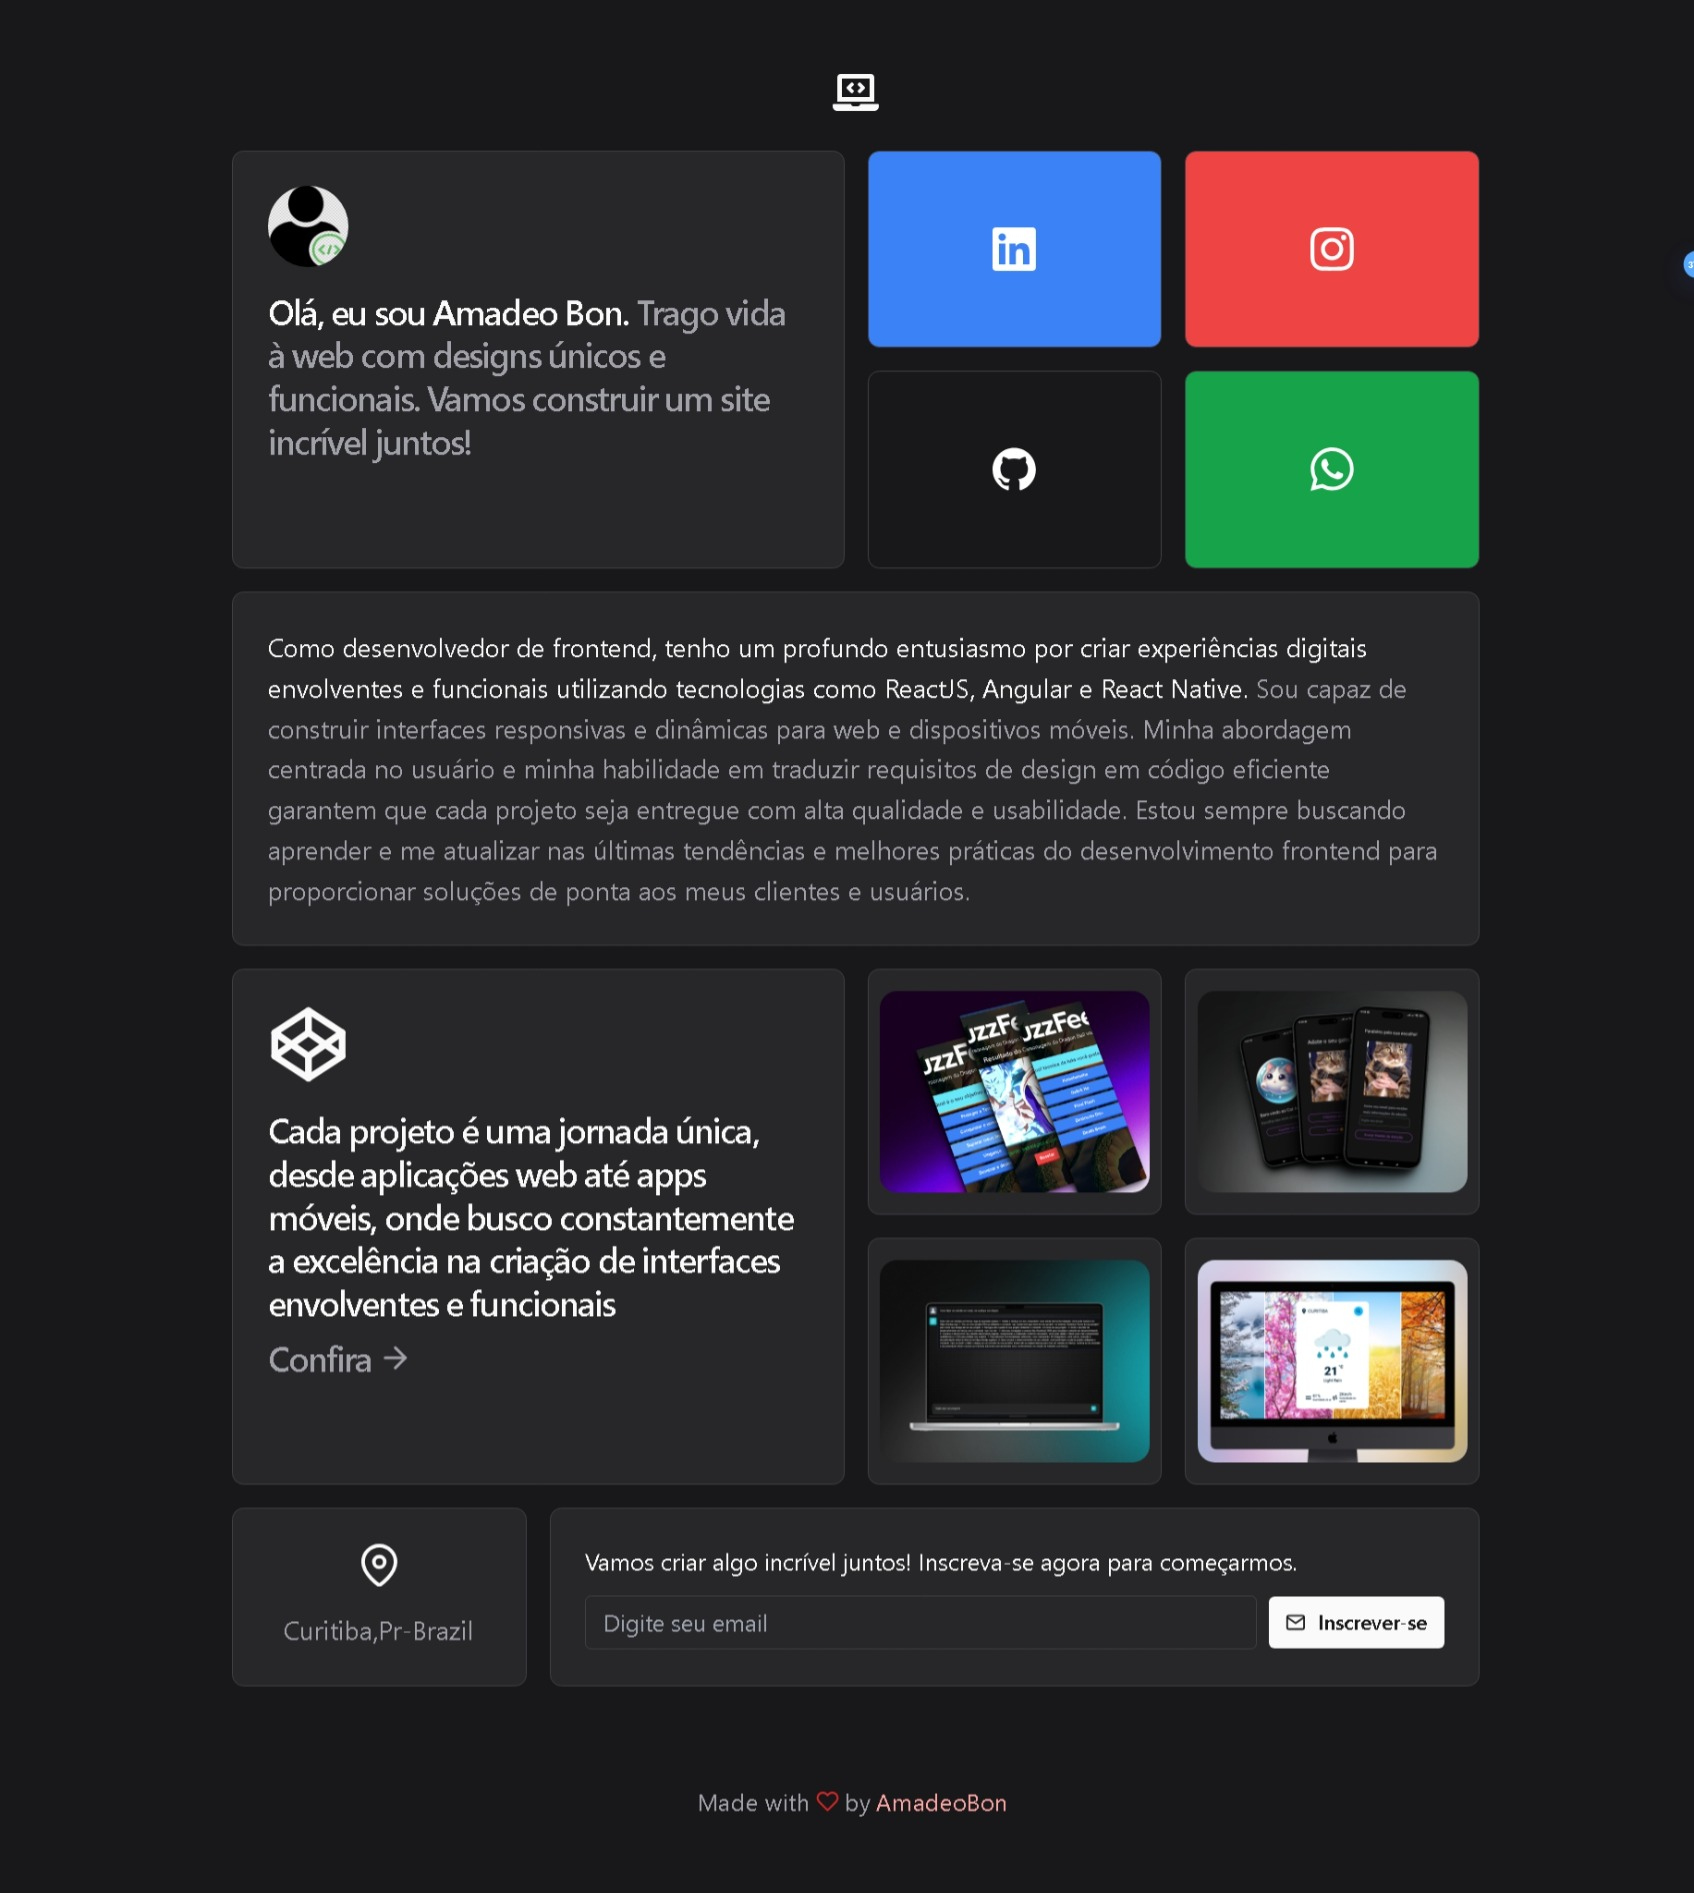
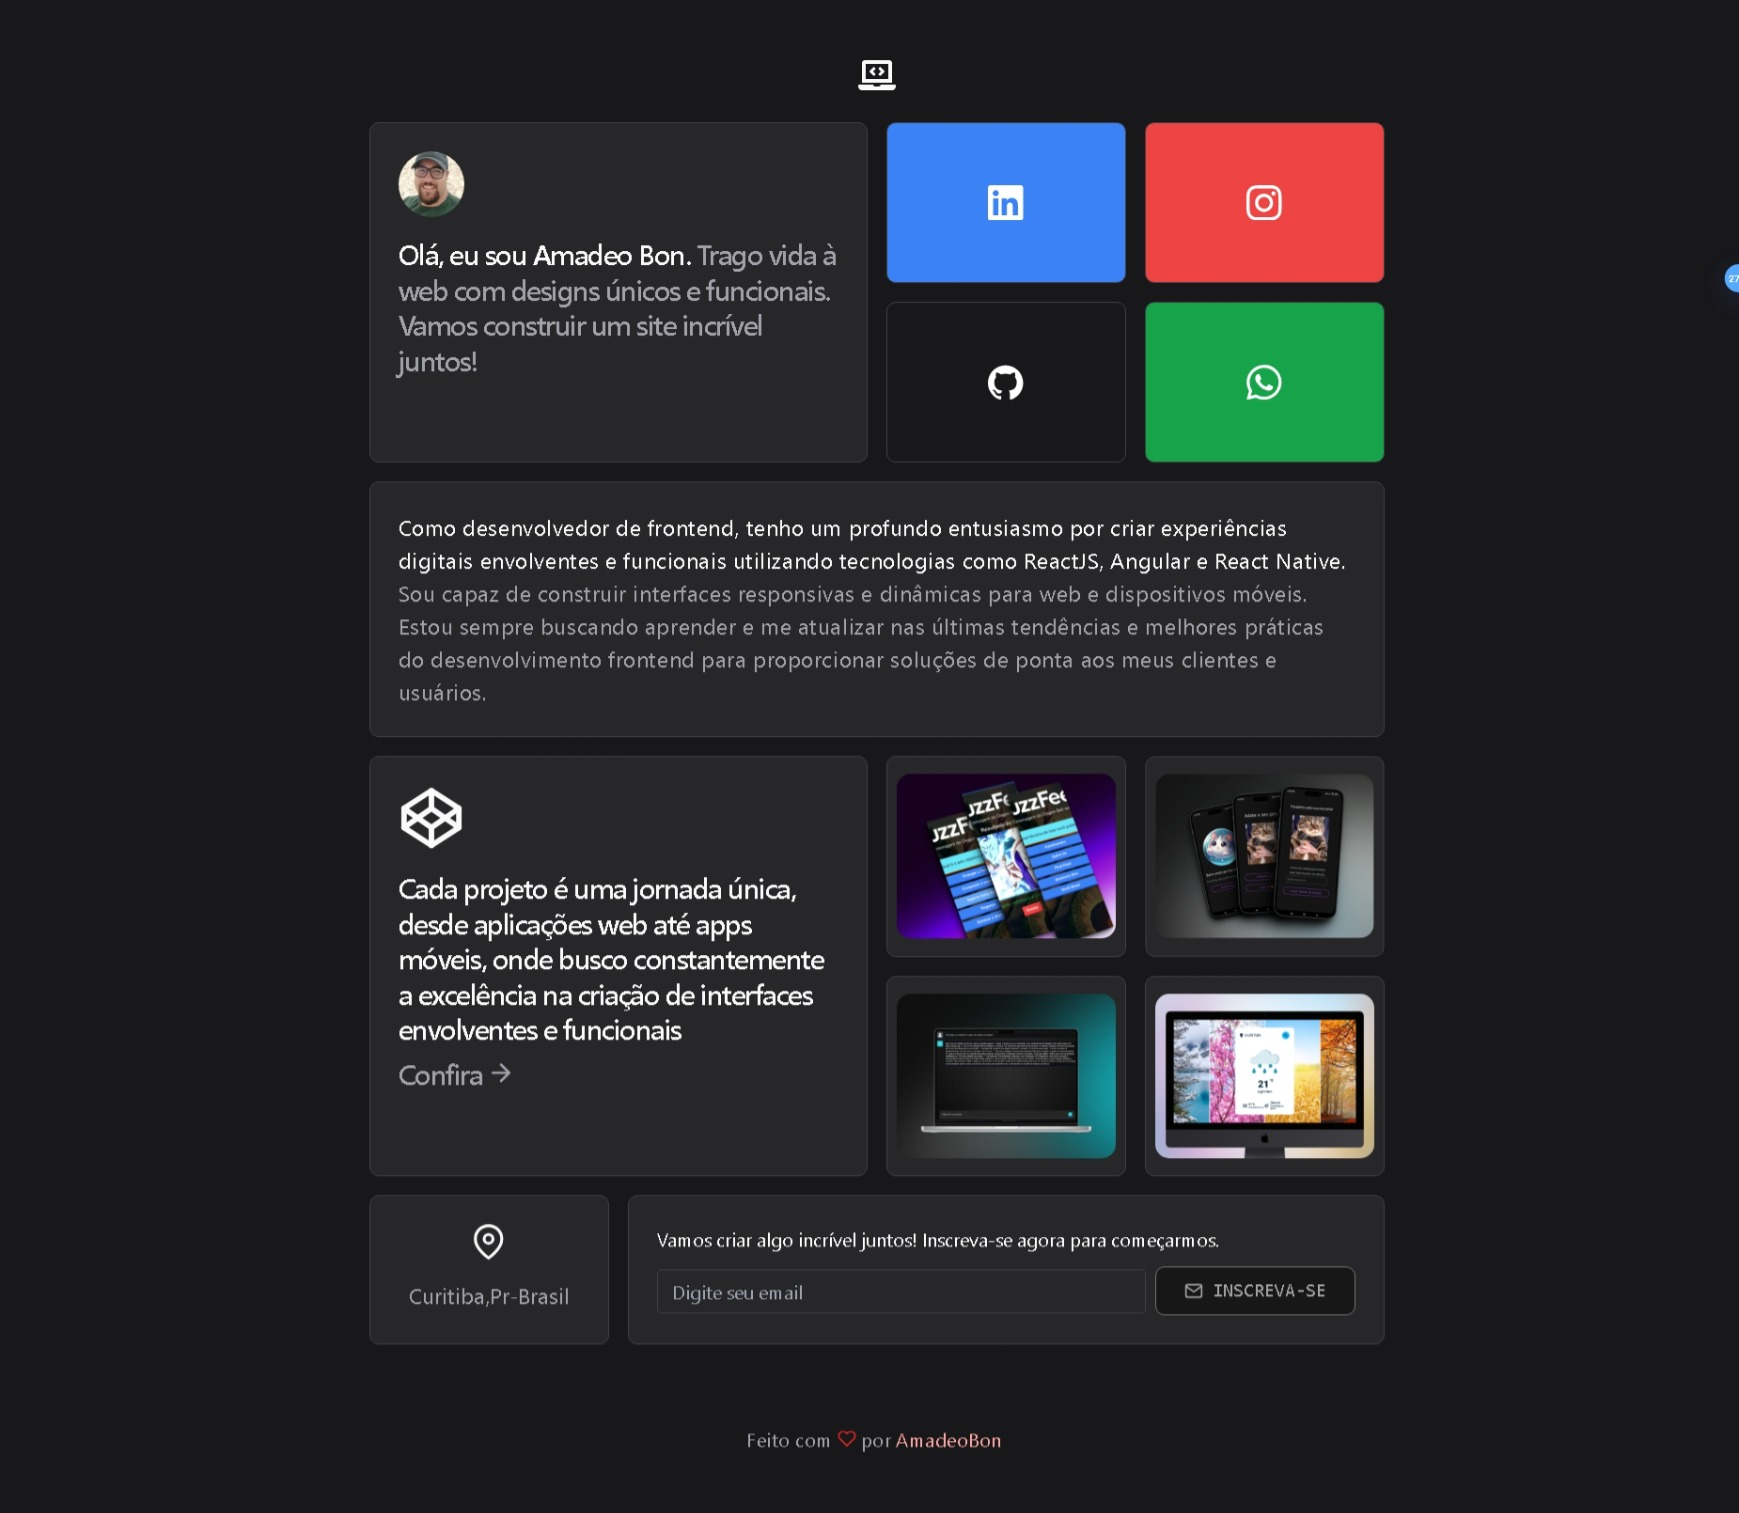
add foto web

diff --git a/src/components/HeaderBlock.tsx b/src/components/HeaderBlock.tsx
@@ -19,7 +19,7 @@ const HeaderBlock = () => {
       <img
         src={currentImage}
         alt="Avatar"
-        className="object-fill mb-4 transition-all duration-500 ease-in-out rounded-full size-14"
+        className="object-fill mb-4 transition-all duration-500 ease-in-out rounded-lg size-14"
       />
       <h1 className="mb-12 text-2xl font-medium leading-tight tracking-tighter font-sora">
         Olá, eu sou Amadeo Bon. {""}
